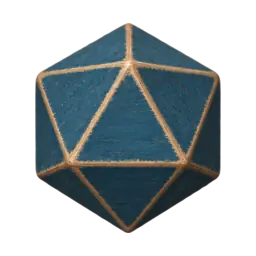
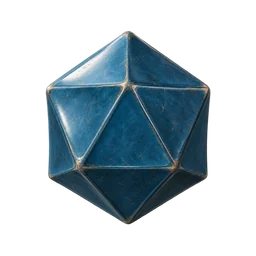
feat: generate retro pawn and dice sprites

diff --git a/docs/design/game-art-fidelity-ledger.md b/docs/design/game-art-fidelity-ledger.md
@@ -189,3 +189,21 @@ Accepted twelve distinct first-pass built-in image generations, one per frozen m
 Contact-sheet order is marble-1 through marble-6, then seed-1 through seed-6. Source preparation removes 154–974 detached faint-alpha pixels per marble and 202–1,677 per stone without rewriting stored PNGs. Byte-identical source checks and deterministic no-write renormalization passed for all twelve.
 
 Stage remains `generation-batches`: 55 completed custom records, 53 `generationPending` custom records, and nine unchanged `authorityReferencePending` quarter slots. All 117 production sprites total 834,948 bytes; the largest remains the inherited 17,732-byte Arcade Hangman stage 6, below the 2 MiB total and 64 KiB per-file limits. Only these twelve records, sources, finals, and four QA sheets belong to this batch. No catalog, registry, validator, dependency, or gameplay change was needed, and this inspection does not claim a fresh browser gameplay audit.
+
+
+## Task 2H Retro pawns and dice — 2026-09-28
+
+Accepted ten distinct first-pass built-in image generations after native-resolution source inspection, strict alpha/source preparation, deterministic exact-asset normalization, and full-size plus phone-size inspection. There were no retries, rejected candidates, reference images, output reuse, sheets, or CLI/API fallback. Exact prompts, portable paths, actual generation timestamps, and review timestamps remain in the ten Retro manifest records; project source PNGs are byte-identical to the built-in originals.
+
+| Inspection | Evidence and result |
+| --- | --- |
+| Original sources | All ten 1254×1254 true-alpha PNGs were inspected at native dimensions through the approved original-resolution inline fallback after `view_image` failed because bubblewrap is unavailable. Alpha and geometry measurements use the untouched PNGs. Every source contains one meaningful component accounting for 100% of connected foreground. Source preparation removed only detached sub-5% alpha residue: 219–571 pixels per pawn and 348–2,877 per die, without rewriting stored sources or removing any meaningful pixel. |
+| Pop & Race pawns | Four complete upright painted-wood pawns share a classic spherical-head, tapered-body, broad-foot silhouette, consistent front three-quarter camera, normalized scale, and warm upper-left light. Terracotta red seat1, deep blue seat2, muted green seat3, and amber-brown seat4 remain unmistakable. Light scratches and rubbed edges convey age without obscuring ownership color or silhouette. |
+| Dice | Six complete softly worn blue painted/Bakelite-style polyhedra are distinctly recognizable as d4 tetrahedron, d6 cube, d8 octahedron, d10 pentagonal trapezohedron, d12 dodecahedron, and d20 icosahedron. Every face is blank; no numeral, pip, letter, glyph, inscription, logo, diagram, extra die, or ground plane appears. |
+| Production-size light/dark | [Light](qa/retro-pawns-dice-full-light.webp) and [dark](qa/retro-pawns-dice-full-dark.webp) sheets show the exact ten final WebPs in 256px cells. Complete silhouettes, colors, facet geometry, restrained wear, and transparent cutouts remain coherent on both backgrounds with no opaque box, checkerboard, text, watermark, clipping, edge contact, or extra meaningful object. |
+| Phone-size readability | [Light](qa/retro-pawns-dice-phone-light.webp) and [dark](qa/retro-pawns-dice-phone-dark.webp) 64px-cell sheets preserve all four ownership colors and the distinct tetrahedral, cubic, octahedral, trapezohedral, dodecahedral, and icosahedral silhouettes. |
+| Alpha, geometry and budget | Every final has genuine alpha, transparent corners, no edge contact, one meaningful component containing 100% of connected foreground, 76.04% pawn / 76.17% die longest-bound fill, and at least 11.72% padding. Batch finals total 91,328 bytes; largest final is 13,408 bytes. Sources total 12,251,926 bytes and remain outside the runtime budget. |
+
+Contact-sheet order is pawn-1 through pawn-4, then d4, d6, d8, d10, d12, d20. Stage remains `generation-batches`: 65 completed custom records, 43 `generationPending` custom records, and nine unchanged `authorityReferencePending` quarter slots. All 117 production sprites total 869,166 bytes; the largest remains the inherited 17,732-byte Arcade Hangman stage 6, below the 2 MiB total and 64 KiB per-file limits.
+
+Only these ten records, sources, finals, and four QA sheets belong to this batch. No catalog, registry, validator, dependency, or gameplay change was needed, and this inspection does not claim a fresh browser gameplay audit.
